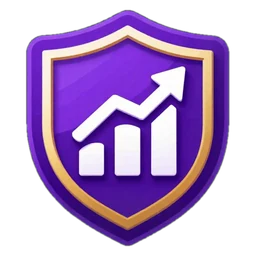
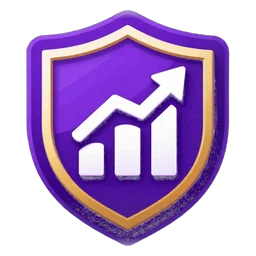
fix: league badges glow properly, sit centred, and the board stops overlapping
The badges are re-cut with soft edges, so no square shows behind them, and this week's league gets a round
glow in the middle of the row. Each player is now its own rounded row, so your row no longer covers the one
above. Every row is numbered in board order, and practice rivals sit near the player's own XP.

diff --git a/src/components/LeagueTab.tsx b/src/components/LeagueTab.tsx
@@ -34,10 +34,15 @@ export function LeagueTab({ onPlay }: { onPlay: () => void }) {
 
   return (
     <div className="flex flex-col gap-4 pt-2">
-      <div className="-mx-4 flex items-end justify-center gap-4 overflow-hidden px-4">
-        {LEAGUES.map((name, i) => (
-          <LeagueBadge key={name} tier={i} active={i === tier} locked={i > tier} size={i === tier ? 104 : 56} />
-        )).slice(Math.max(0, tier - 1), tier + 3)}
+      {/* The league before, this one in the middle, and the next one. An empty slot keeps this one centred. */}
+      <div className="flex items-end justify-center gap-5">
+        {[tier - 1, tier, tier + 1].map((i) =>
+          i >= 0 && i < LEAGUES.length ? (
+            <LeagueBadge key={i} tier={i} active={i === tier} locked={i > tier} size={i === tier ? 112 : 60} />
+          ) : (
+            <span key={i} className="w-[60px] shrink-0" aria-hidden="true" />
+          ),
+        )}
       </div>
       <div className="text-center">
         <h1 className="text-[28px] font-black" style={{ color }}>
@@ -80,36 +85,35 @@ export function LeagueTab({ onPlay }: { onPlay: () => void }) {
             <span>Player</span>
             <span>XP this week</span>
           </div>
-          <ol className="flex flex-col overflow-hidden rounded-3xl">
-            {board.rows.map((r) => {
+          <ol className="flex flex-col gap-2">
+            {board.rows.map((r, i) => {
               const place = r.bot ? -1 : real.indexOf(r);
               const zoneTop = place >= 0 && place < board.promote.count && r.xp >= board.promote.minXp;
               const zoneBottom = place >= 0 && board.demote > 0 && place >= real.length - board.demote;
               return (
-                <li key={r.id}>
-                  <div
-                    className={`flex items-center gap-3 px-4 py-3 ${r.you ? "relative z-[1] -mx-0.5 rounded-2xl border-2 border-red/80 bg-[#2a1214]" : zoneTop ? "bg-[#0f2116]" : "bg-surface"} ${!r.you ? "border-b border-bg" : ""} ${r.bot ? "opacity-60" : ""}`}
+                <li
+                  key={r.id}
+                  className={`flex items-center gap-3 rounded-2xl border-2 px-3 py-2.5 ${r.you ? "border-brand bg-brand/10" : zoneTop ? "border-transparent bg-[#0f2116]" : "border-transparent bg-surface"}`}
+                >
+                  <span
+                    className={`w-6 shrink-0 text-center text-[16px] font-black tabular-nums ${zoneTop ? "text-green" : zoneBottom ? "text-red" : "text-muted"}`}
                   >
-                    <span
-                      className={`w-7 text-center text-[17px] font-black tabular-nums ${zoneTop ? "text-green" : zoneBottom ? "text-red" : "text-muted"}`}
-                    >
-                      {r.bot ? "·" : place + 1}
-                    </span>
-                    <span
-                      className="grid size-10 shrink-0 place-items-center rounded-full text-[16px] font-black text-[#0b1015]"
-                      style={{ background: colorOf(r.id) }}
-                    >
-                      {r.name[0]?.toUpperCase()}
-                    </span>
-                    <span className="flex-1 truncate text-[17px] font-extrabold">
-                      {r.you ? `${r.name} (you)` : r.name}
-                      {r.bot && <span className="ml-1 text-[12px] font-black text-muted uppercase">practice</span>}
-                    </span>
-                    <span className="flex items-center gap-1 text-[17px] font-black tabular-nums">
-                      <Icon.bolt className="size-5" />
-                      {r.xp}
-                    </span>
-                  </div>
+                    {i + 1}
+                  </span>
+                  <span
+                    className={`grid size-10 shrink-0 place-items-center rounded-full text-[16px] font-black text-[#0b1015] ${r.bot ? "opacity-60" : ""}`}
+                    style={{ background: colorOf(r.id) }}
+                  >
+                    {r.name[0]?.toUpperCase()}
+                  </span>
+                  <span className={`min-w-0 flex-1 truncate text-[17px] font-extrabold ${r.bot ? "text-muted" : ""}`}>
+                    {r.you ? `${r.name} (you)` : r.name}
+                    {r.bot && <span className="ml-1.5 text-[11px] font-black tracking-wider uppercase">practice</span>}
+                  </span>
+                  <span className="flex shrink-0 items-center gap-1 text-[17px] font-black tabular-nums">
+                    <Icon.bolt className="size-5" />
+                    {r.xp}
+                  </span>
                 </li>
               );
             })}
@@ -133,17 +137,24 @@ export function LeagueTab({ onPlay }: { onPlay: () => void }) {
 /** A league's badge (public/league/<tier>.webp). Leagues above the player's are greyed out. */
 function LeagueBadge({ tier, active, locked, size }: { tier: number; active: boolean; locked: boolean; size: number }) {
   return (
-    // eslint-disable-next-line @next/next/no-img-element
-    <img
-      src={`/league/${tier}.webp`}
-      alt={active ? `${LEAGUES[tier]} league badge` : ""}
-      width={size}
-      height={size}
-      className="shrink-0"
-      style={{
-        opacity: locked ? 0.35 : 1,
-        filter: locked ? "grayscale(1)" : active ? `drop-shadow(0 6px 14px ${TIER_COLORS[tier]}66)` : undefined,
-      }}
-    />
+    <span className="relative grid shrink-0 place-items-center" style={{ width: size, height: size }}>
+      {/* A soft round glow behind this week's league. */}
+      {active && (
+        <span
+          aria-hidden="true"
+          className="absolute -inset-6 rounded-full"
+          style={{ background: `radial-gradient(circle, ${TIER_COLORS[tier]}55 0%, ${TIER_COLORS[tier]}00 65%)` }}
+        />
+      )}
+      {/* eslint-disable-next-line @next/next/no-img-element */}
+      <img
+        src={`/league/${tier}.webp`}
+        alt={active ? `${LEAGUES[tier]} league badge` : ""}
+        width={size}
+        height={size}
+        className="relative"
+        style={{ opacity: locked ? 0.35 : 1, filter: locked ? "grayscale(1)" : undefined }}
+      />
+    </span>
   );
 }

diff --git a/src/lib/server/game.ts b/src/lib/server/game.ts
@@ -357,10 +357,14 @@ export async function leagueBoard(db: Db, userId: string, now = new Date()): Pro
     ...(r.userId === userId ? { you: true, name: names[r.userId] ?? "You" } : {}),
   }));
   if (row && real.length < FILL_TO) {
-    const bots = leagueRows({ seed: `${week}-${row.cohort}`, weekId: week, tier, yourXp: 0, yourName: "", now })
+    // Practice rivals sit around the player's own level (the best at about 1.5× their XP), so the board feels
+    // winnable from day one. Their spread comes from the seeded rows, so it stays steady through the week.
+    const seeded = leagueRows({ seed: `${week}-${row.cohort}`, weekId: week, tier, yourXp: 0, yourName: "", now })
       .filter((b) => !b.you)
-      .slice(0, FILL_TO - real.length)
-      .map((b) => ({ id: b.id, name: b.name, xp: b.xp, bot: true }));
+      .slice(0, FILL_TO - real.length);
+    const top = Math.max(1, ...seeded.map((b) => b.xp));
+    const level = Math.max(40, row.weeklyXp) * 1.5;
+    const bots = seeded.map((b) => ({ id: b.id, name: b.name, xp: Math.round((b.xp / top) * level), bot: true }));
     rows.push(...bots);
   }
   rows.sort((a, b) => b.xp - a.xp || (a.you ? -1 : b.you ? 1 : 0));
